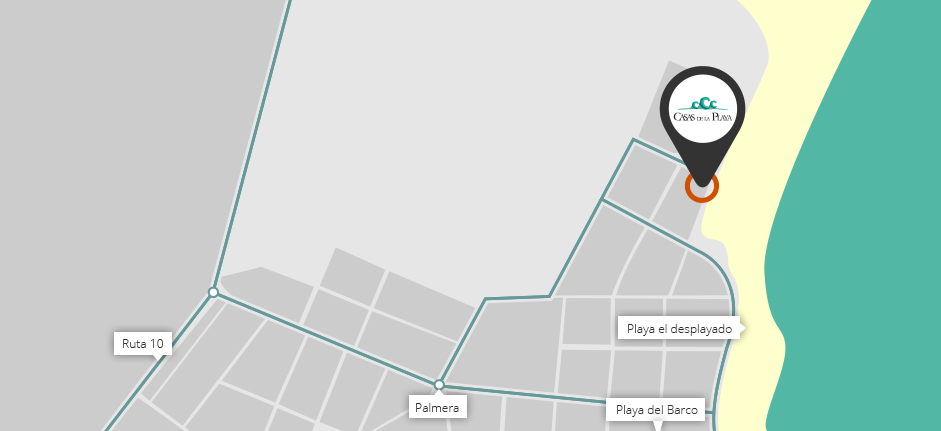
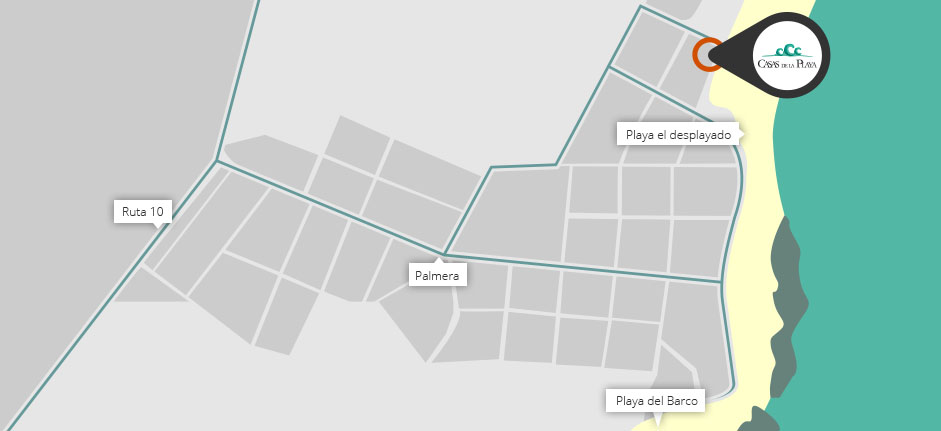
#Last changes fix la pedrera modal fix responsive fix modals 4 y 6 fix ubicacion map

diff --git a/public/css/newweb_css/responsive.css b/public/css/newweb_css/responsive.css
@@ -1,0 +1,234 @@
+
+
+@media (max-width: 767px) {
+
+ul {
+	margin-left:0;
+}
+.row {
+	padding: 0 25px 0 25px;
+}
+#wrapper {
+	height: 500px;
+}
+#home_content {
+	width:auto;
+	height: auto;
+	margin: 0 0 0 0;
+	left: auto;
+}
+.mod_contacto {
+	height:195px;
+	margin-top:10px;
+}
+
+/* alojamientos*/
+.aloj_btn h2 {
+	width: 199px;
+	margin: 43px 0 20px 0;
+}	
+.aloj_serv li {
+	font-size:11px;
+}
+/*ubicacion*/
+.map {
+	background-size: 100%;
+	height: 192px;
+}
+.map .btn {
+	display:none;
+}
+.map .map_recorrido {
+	top: -73px;
+	left: 2px;
+}
+/* contacto */
+#contacto {
+	height:auto!important;
+}
+.form-horizontal .control-group {
+	margin-bottom: -3px;
+}
+.form-horizontal .controls {
+	margin-left:0;
+}
+.btn_mod_ico {
+	margin-top: 19px;
+	margin-right: -16px;
+}
+.c_mod_tel {
+	border-top: 1px dotted #619F97;
+	border-bottom: 1px dotted #619F97;
+	padding: 14px 0 0 0;
+	margin-top: -7px;
+	margin-bottom: 10px;
+}
+
+/* scoll */
+
+.scrollup {
+	right:25px;
+}
+
+/* modal */
+.modal {
+	width:auto;
+	margin-left:0;
+}
+
+.modal-body .slide {
+	width:auto;
+}
+.carousel-inner {
+	height:auto;
+}
+.modal-footer .serv_over {
+	width: 410px;
+	height: auto;
+	padding: 0;
+	background: none;
+	position: inherit;
+	bottom:none;
+	display: block;
+}
+.modal-footer .tarif_over {
+	position: inherit;
+	display: block;
+}
+.btn_servicios, .btn_tarifas  {
+	display:none;
+}
+}
+
+
+@media (max-width: 320px) {
+ul {
+	margin-left:0;
+}
+.row {
+	padding: 0 25px 0 25px;
+}
+#wrapper {
+	height: 480px;
+	background:url(../../images/bkg_carousel/002.jpg) no-repeat;
+}
+#wrapper .caroufredsel_wrapper {
+	display:none;
+}
+.nav-pills {
+	margin-top:0;
+}
+.nav-pills li a {
+	font-size:13px!important;
+}
+#home_content {
+	width:auto;
+	height: auto;
+	margin: 0 0 0 0;
+	left: auto;
+}
+.mod_contacto {
+	height:195px;
+	margin-top:-5;
+}
+.mod_contacto a {
+	font-size:14px;
+}
+.h_bkg_desc {
+	display:none;
+}
+
+/* alojamientos*/
+.aloj_btn {
+	height:150px;
+}
+.aloj_btn h2 {
+	width: 199px;
+	margin: 43px auto 20px auto;
+	float:none;
+}	
+.aloj_btn span {
+	margin:15px auto 0 auto;
+	float:none;
+}
+.aloj_more {
+	top: 55px;
+	left: 101px;
+}
+.aloj_serv li {
+	font-size:11px;
+}
+.aloj_btn img{
+	display:none;
+}
+/*ubicacion*/
+.map {
+	background-size: 100%;
+	height: 119px;
+}
+.map .btn {
+	display:none;
+}
+.map .map_recorrido {
+	top: -26px;
+	left: 2px;
+}
+/* contacto */
+#contacto {
+	height:auto!important;
+}
+.form-horizontal .control-group {
+	margin-bottom: -3px;
+}
+.form-horizontal .controls {
+	margin-left:0;
+}
+.btn_mod_ico {
+	margin-top: 19px;
+	margin-right: -16px;
+}
+.c_mod_tel {
+	border-top: 1px dotted #619F97;
+	border-bottom: 1px dotted #619F97;
+	padding: 14px 0 0 0;
+	margin-top: -7px;
+	margin-bottom: 10px;
+}
+
+/* scoll */
+
+.scrollup {
+	right:25px;
+}
+
+/* modal */
+.modal {
+	width:auto;
+	margin-left:0;
+	max-height: 430px;
+	overflow-y: auto;
+}
+
+.modal-body .slide {
+	width:auto;
+}
+.carousel-inner {
+	height:auto;
+}
+.modal-footer .serv_over {
+	width: 410px;
+	height: auto;
+	padding: 0;
+	background: none;
+	position: inherit;
+	bottom:none;
+	display: block;
+}
+.modal-footer .tarif_over {
+	position: inherit;
+	display: block;
+}
+.btn_servicios, .btn_tarifas  {
+	display:none;
+}
+}

diff --git a/public/css/newweb_css/style.css b/public/css/newweb_css/style.css
@@ -6,12 +6,19 @@ html, body {
 body {
 	min-height: 600px;
 }
+p {
+	text-align:justify;
+}
 body * {
 	font-family:'Open Sans', sans-serif;
 	font-weight:300;
 	font-size: 16px;
 	color: #333;
 	line-height: 22px;
+}
+body.actividades .modal {
+	height: 90%;
+	overflow-y: auto;
 }
 h1{
 	font-size:30px;
@@ -78,6 +85,9 @@ input[type=button] {
 .caroufredsel_wrapper {
 	width: 100% !important;
 	height: 100% !important;
+}
+.la_p_carousel {
+	width:734px!important;
 }
 #carousel div {
 	width: 100%;
@@ -315,7 +325,8 @@ body.actividades .nav-pills li a:hover {
 .map .map_recorrido {
 	display:none;
 	position:absolute;
-	top:0px;
+	top: -132px;
+	left: 3px;
 	z-index:3;
 }
 /* contacto */
@@ -324,7 +335,7 @@ body.actividades .nav-pills li a:hover {
 	width:100%;
 	height:747px;
 	padding-top:15px;
-	background: url(../../images/bkg/contact_bkg.jpg) center repeat #1c9286;
+	background: url(../../../images/bkg/contact_bkg.jpg) center repeat #1c9286;
 }
 #contacto h1 {
 	color:#ffffff;
@@ -512,8 +523,6 @@ footer img {
 }
 body.actividades .modal-body .btn {
 	margin-left:88px!important;
-	position:relative;
-	margin:0px;
 }
 .modal-body .btn:hover {
 	background-image:none;
@@ -600,7 +609,7 @@ body.actividades .modal-body .btn {
 	color:#666666;
 }
 .modal-scroll {
-	max-height:450px;
+	max-height:550px;
 }
 /* scroll */ 
 .scrollup {
